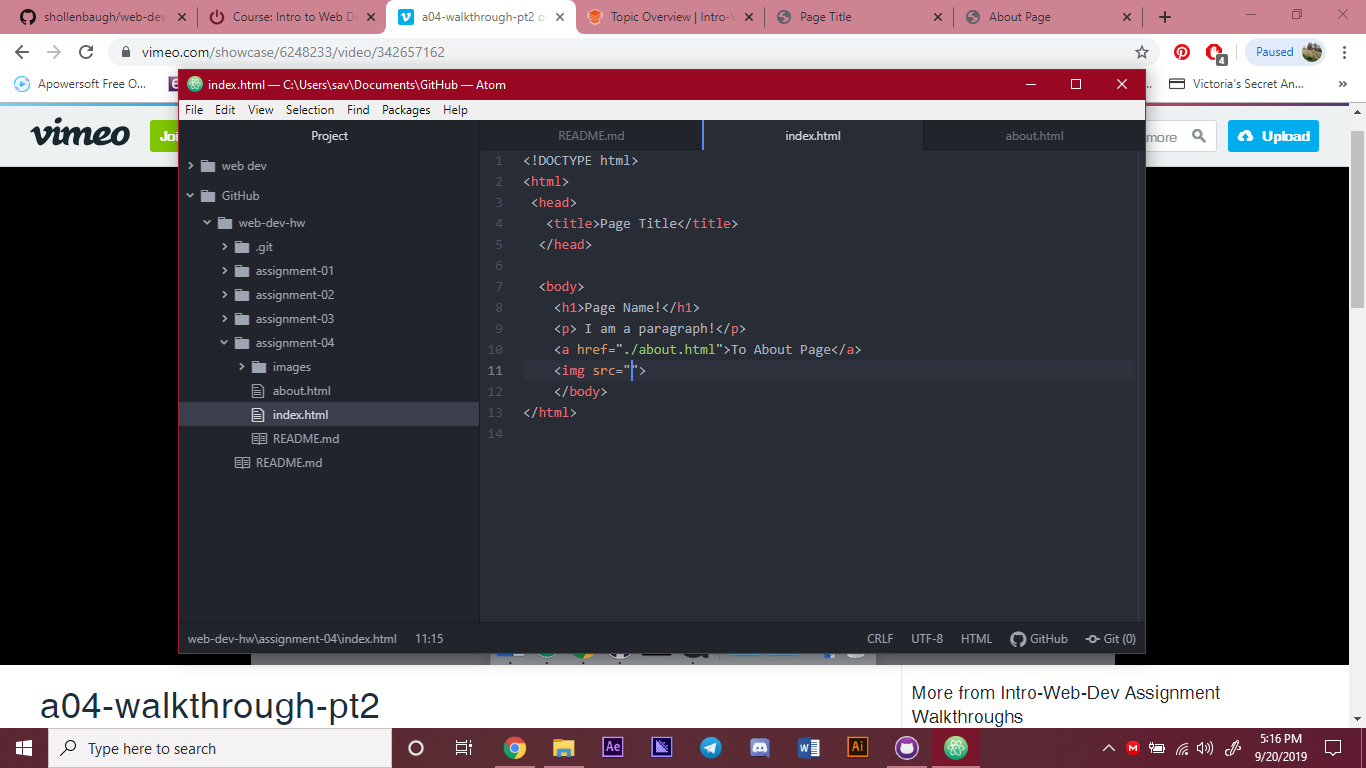
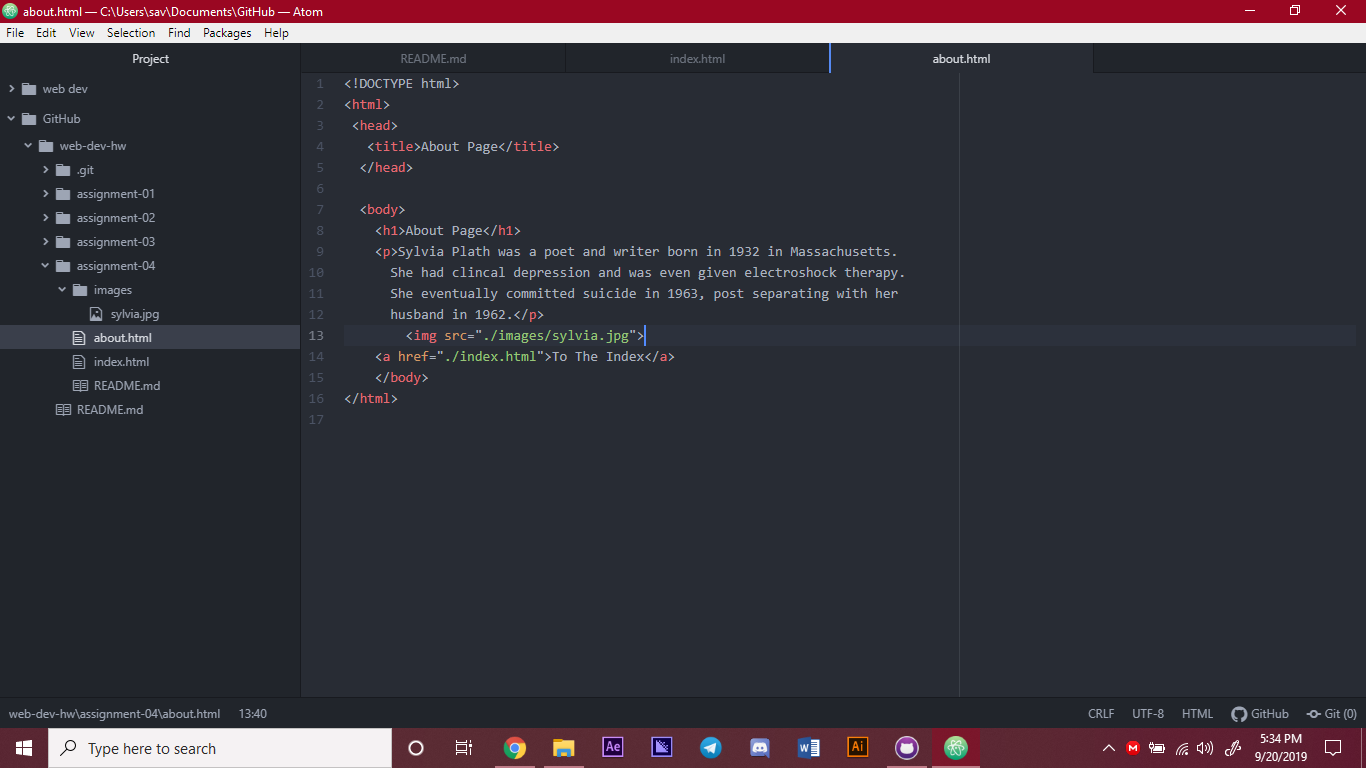
Updated assignment-04 hw

diff --git a/assignment-04/index.html b/assignment-04/index.html
@@ -7,7 +7,118 @@
   <body>
     <h1>Lady Lazarus</h1>
       <h2>Sylvia Plath</h2>
-    <p> I am a paragraph!</p>
+      <hr>
+      <p>I have done it again.
+One year in every ten
+I manage it——
+
+A sort of walking miracle, my skin
+Bright as a Nazi lampshade,
+My right foot
+
+A paperweight,
+My face a featureless, fine
+Jew linen.
+
+Peel off the napkin
+O my enemy.
+Do I terrify?——
+
+The nose, the eye pits, the full set of teeth?
+The sour breath
+Will vanish in a day.
+
+Soon, soon the flesh
+The grave cave ate will be
+At home on me
+
+And I a smiling woman.
+I am only thirty.
+And like the cat I have nine times to die.
+
+This is Number Three.
+What a trash
+To annihilate each decade.
+
+What a million filaments.
+The peanut-crunching crowd
+Shoves in to see
+
+Them unwrap me hand and foot——
+The big strip tease.
+Gentlemen, ladies
+
+These are my hands
+My knees.
+I may be skin and bone,
+
+Nevertheless, I am the same, identical woman.
+The first time it happened I was ten.
+It was an accident.
+
+The second time I meant
+To last it out and not come back at all.
+I rocked shut
+
+As a seashell.
+They had to call and call
+And pick the worms off me like sticky pearls.
+
+Dying
+Is an art, like everything else.
+I do it exceptionally well.
+
+I do it so it feels like hell.
+I do it so it feels real.
+I guess you could say I’ve a call.
+
+It’s easy enough to do it in a cell.
+It’s easy enough to do it and stay put.
+It’s the theatrical
+
+Comeback in broad day
+To the same place, the same face, the same brute
+Amused shout:
+
+‘A miracle!’
+That knocks me out.
+There is a charge
+
+For the eyeing of my scars, there is a charge
+For the hearing of my heart——
+It really goes.
+
+And there is a charge, a very large charge
+For a word or a touch
+Or a bit of blood
+
+Or a piece of my hair or my clothes.
+So, so, Herr Doktor.
+So, Herr Enemy.
+
+I am your opus,
+I am your valuable,
+The pure gold baby
+
+That melts to a shriek.
+I turn and burn.
+Do not think I underestimate your great concern.
+
+Ash, ash—
+You poke and stir.
+Flesh, bone, there is nothing there——
+
+A cake of soap,
+A wedding ring,
+A gold filling.
+
+Herr God, Herr Lucifer
+Beware
+Beware.
+
+Out of the ash
+I rise with my red hair
+And I eat men like air.</p>
     <a href="./about.html">To About Page</a>
     <img src="./images/screenshot.png">
     </body>

diff --git a/assignment-04/about.html b/assignment-04/about.html
@@ -6,6 +6,12 @@
 
   <body>
     <h1>About Page</h1>
+    <p>Sylvia Plath was a poet and writer born in 1932 in Massachusetts.
+      She had clincal depression and was even given electroshock therapy.
+      She eventually committed suicide in 1963, post separating with her
+      husband in 1962.</p>
+        <img src="./images/sylvia.jpg">
+        <br>
     <a href="./index.html">To The Index</a>
     </body>
 </html>

diff --git a/assignment-04/README.md b/assignment-04/README.md
@@ -1,2 +1,11 @@
 # Assignment 04
 ## Savanah Hollenbaugh
+Using the wayback machine, I visited an older version of Facebook. There are
+always subtle changes, like fonts or slight color change, but there are also
+big changes, like making the layout different or adding new features to make
+the site more functional.
+
+I feel the GitHub module really helps with understanding. It does a good
+way of summarizing your walkthrough and giving you more of a feel for creating
+websites.
+![My Screenshot](./images/screenshot.png)
